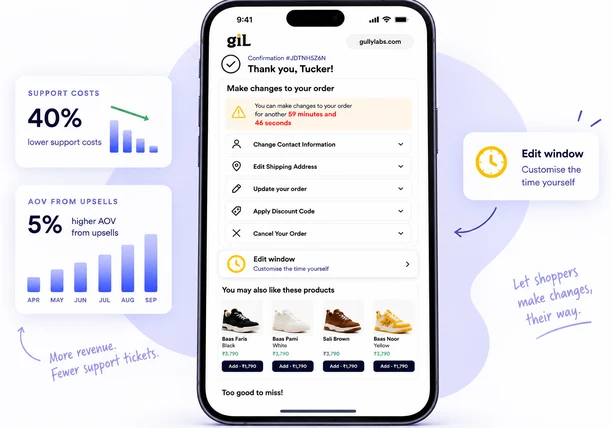
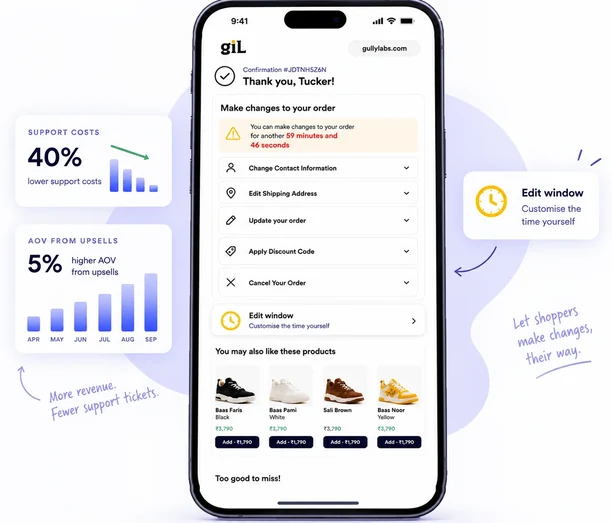
The hero phone gets a phone's proportions
It was 469 x 853 in the render, which is 1.82:1. An iPhone body is
2.07:1. That is the odd ratio - a squat phone - and it could not be
fixed in the page, because the proportion was in the pixels.

So the art is rebuilt. The phone is lifted off the background on its own
silhouette, traced row by row from where the bezel actually starts and
stops, buttons included - the mute switch and volume keys stand a few
pixels proud of the rails, and a mask that follows only the rails leaves
them behind as nubs.

It is lengthened by inserting 117 rows inside bands of flat screen
white: the gaps between the accordion rows, above and below the cards,
under the last heading. Nothing is stretched - a duplicated row of flat
white is flat white, and the rails are uniform down their whole length,
so a seam there has nothing to show. Spread over eighteen bands it is
about six rows each, which reads as a roomier screen rather than a
stretched one. Every glyph comes through at its original shape.

Then it is scaled 6% into the slack the side cards leave - 53px on the
left, 58px on the right - which keeps 38 and 42 and makes the screen's
own UI bigger, which was the other half of it. Final phone 502 x 1038,
2.068:1.

The background is rebuilt to suit: the phone is painted out of it first,
so the rows duplicated to grow the canvas have no bezel in them to
streak, then the canvas grows in two places - above the cards and below
them - which slides the side content down to sit centred against the
[…]

diff --git a/index.html b/index.html
@@ -1591,7 +1591,7 @@
       </div>
 
       <div style="width: 612px; flex-shrink: 0; display: flex; justify-content: flex-start; align-items: center;">
-        <img src="assets/hero-home.webp" srcset="assets/hero-home.webp 612w, assets/hero-home@2x.webp 1224w" sizes="612px" alt="The Gully Labs thank-you page on a phone: a countdown on how long the order stays editable, rows for contact details, shipping address, order changes, discount codes and cancellation, and recommended trainers below. Floating cards read 40% lower support costs and 5% higher AOV from upsells, a callout explains that the edit window is yours to set, and two handwritten lines read “Let shoppers make changes, their way” and “More revenue. Fewer support tickets.”" width="612" height="428" style="width: 612px; max-width: 100%; height: auto; display: block;">
+        <img src="assets/hero-home.webp" srcset="assets/hero-home.webp 612w, assets/hero-home@2x.webp 1224w" sizes="612px" alt="The Gully Labs thank-you page on a phone: a countdown on how long the order stays editable, rows for contact details, shipping address, order changes, discount codes and cancellation, and recommended trainers below. Floating cards read 40% lower support costs and 5% higher AOV from upsells, a callout explains that the edit window is yours to set, and two handwritten lines read “Let shoppers make changes, their way” and “More revenue. Fewer support tickets.”" width="612" height="523" style="width: 612px; max-width: 100%; height: auto; display: block;">
       </div>
     </div>
   </section>
